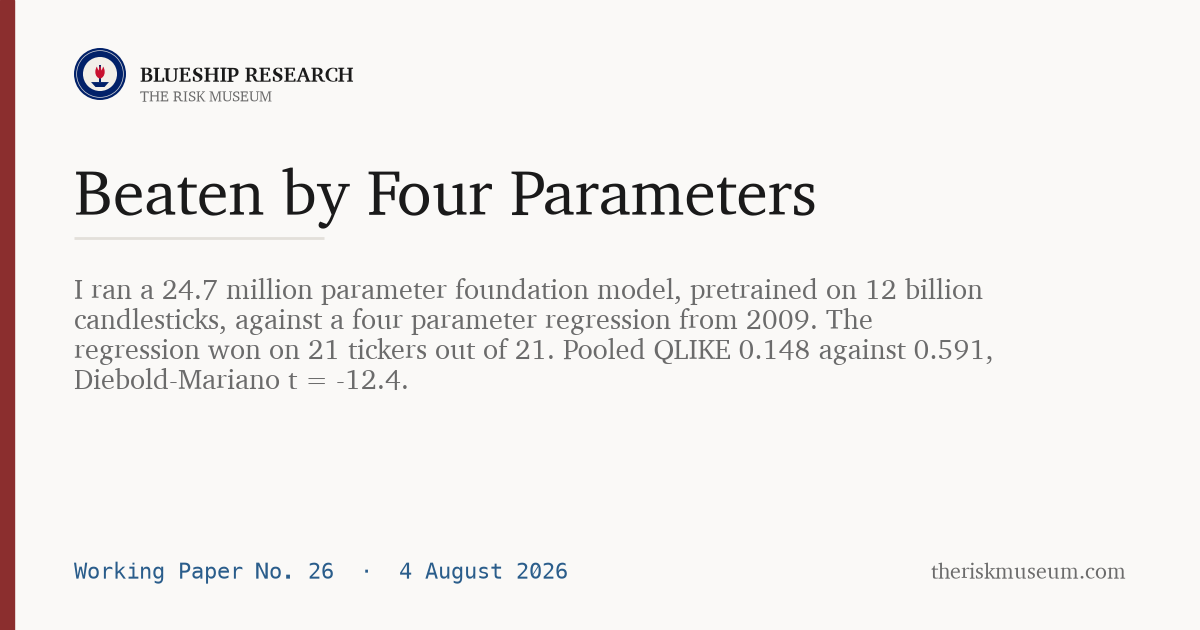
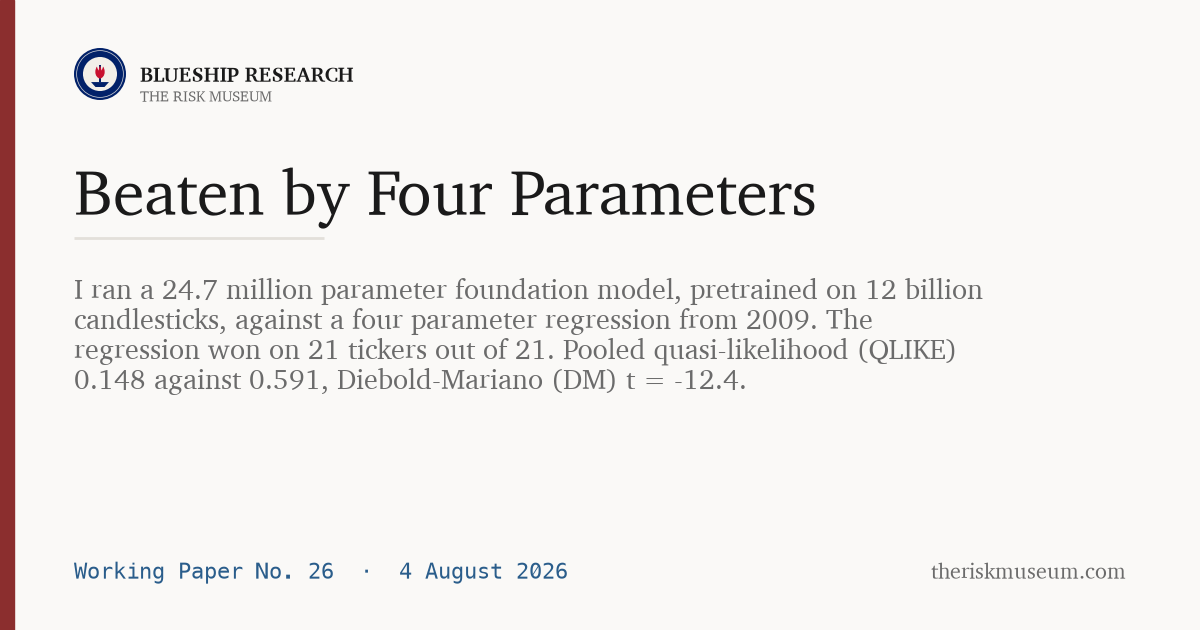
graveyard update 2026-08-04

Changed region(s): [[0.0617, 0.573, 0.5242, 0.6333], [0.5242, 0.5429, 0.8325, 0.6333]]

diff --git a/notes/reactor-queue.html b/notes/reactor-queue.html
@@ -118,10 +118,10 @@ footer { margin-top:2.4rem; padding-top:1rem; border-top:1px solid var(--line);
 <p>A note on credit. The framing of this paper, including the test that counts deals against construction sites and the arithmetic of half of one percent, comes from the video essay that seeded it. The verification, the extensions, and the prediction ledger are mine.</p>
 <hr />
 <h2>1. Abstract</h2>
-<p>I audited every announced nuclear agreement between Microsoft, Google, Amazon, and Meta against primary sources. The ledger sums to roughly 14.7 GW at face value, and its composition matters more than its total. Every buyer purchased a position in a queue, on gas as much as on nuclear. Upstream sits HALEU enrichment, where licensed US capacity is 900 kg per year against a DOE statement of need above 40 tonnes by 2030.</p>
+<p>I audited every announced nuclear agreement between Microsoft, Google, Amazon, and Meta against primary sources. The ledger sums to roughly 14.7 gigawatts (GW) at face value, and its composition matters more than its total. Every buyer purchased a position in a queue, on gas as much as on nuclear. Upstream sits high-assay low-enriched uranium (HALEU) enrichment, where licensed US capacity is 900 kg per year against a US Department of Energy (DOE) statement of need above 40 tonnes by 2030.</p>
 <hr />
 <h2>2. The deal ledger</h2>
-<p>A deal here spans everything from a PPA running 20 years on an operating plant to a memorandum to explore. I count 13 rows; other lumpings give 11 to 14.</p>
+<p>A deal here spans everything from a power purchase agreement (PPA) running 20 years on an operating plant to a memorandum to explore. I count 13 rows; other lumpings give 11 to 14.</p>
 <div class="tblwrap"><table>
 <thead>
 <tr>
@@ -318,7 +318,7 @@ footer { margin-top:2.4rem; padding-top:1rem; border-top:1px solid var(--line);
 <h3>3.1 The turbine shelf</h3>
 <p>The rejoinder to slow nuclear is fast gas. GE Vernova's backlog reached 116 GW at Q2 2026, of which 53 GW is firm equipment backlog and 63 GW is slot reservations, and it is already selling 2031 delivery slots. Wood Mackenzie counts ~110 GW of 2025 orders against 60 to 70 GW per year of world manufacturing capacity, with prices up 195 percent since 2019. A campus decided today gets a 2031 slot and first power around 2031 to 2033.</p>
 <h3>3.2 The restart shelf</h3>
-<p>As of July 28, 2026, zero US nuclear restarts have delivered a single MWh. The shelf is three plants, Palisades (~800 to 805 MW), Crane (835 MW), and Duane Arnold (601 to 615 MW), about 2 percent of the ~97 GW US fleet, and it does not restock. Palisades returned to operations status on August 25, 2025, has missed four named dates since, and still has no announced restart date (ANS, Jul 8, 2026). The working number is 3 to 4+ years from decision to grid for plants that were never gutted.</p>
+<p>As of July 28, 2026, zero US nuclear restarts have delivered a single megawatt hour (MWh). The shelf is three plants, Palisades (~800 to 805 megawatts, MW), Crane (835 MW), and Duane Arnold (601 to 615 MW), about 2 percent of the ~97 GW US fleet, and it does not restock. Palisades returned to operations status on August 25, 2025, has missed four named dates since, and still has no announced restart date (ANS, Jul 8, 2026). The working number is 3 to 4+ years from decision to grid for plants that were never gutted.</p>
 <h3>3.3 The shelf for new build</h3>
 <p>Vogtle 3&amp;4 was certified in 2009 at ~$14B and finished at over $31B. The cost ladder, all in unless noted.</p>
 <div class="tblwrap"><table>
@@ -372,7 +372,7 @@ footer { margin-top:2.4rem; padding-top:1rem; border-top:1px solid var(--line);
 </tr>
 </tbody>
 </table></div>
-<p>DOE announced $17.5B in conditional loan commitments on June 23, 2026 for ten new AP1000s. No firm AP1000 order for a specific site existed as of late July 2026 that I could verify. My realistic estimate for SMR MW on any grid by the end of 2030 is roughly 300 to 425 MWe, essentially none of it contracted by a hyperscaler.</p>
+<p>DOE announced $17.5B in conditional loan commitments on June 23, 2026 for ten new AP1000s. No firm AP1000 order for a specific site existed as of late July 2026 that I could verify. My realistic estimate for small modular reactor (SMR) MW on any grid by the end of 2030 is roughly 300 to 425 MWe, essentially none of it contracted by a hyperscaler.</p>
 <h3>3.4 What the shelves say together</h3>
 <p>Nobody in the Section 2 ledger bought speed, because speed was not for sale. They bought positions in queues. Project Kilby, Chevron's 2.67 GW plant built on 7HA turbine slots reserved before the panic and sold to Microsoft on a PPA running 20 years, shows the queue position is now the tradable asset.</p>
 <hr />
@@ -489,7 +489,7 @@ footer { margin-top:2.4rem; padding-top:1rem; border-top:1px solid var(--line);
 <li><strong>P6.</strong> GE Vernova reports gas equipment backlog plus slot reservations of at least 125 GW for the end of 2026. 70 to 90%.</li>
 <li><strong>P7.</strong> GE Vernova is publicly taking orders for 2032 turbine delivery by its Q2 2027 report. 60 to 85%.</li>
 <li><strong>P8.</strong> New capacity actually delivering under the nuclear contracts of the big four, excluding reallocated existing output, totals less than 3,000 MW by December 31, 2030. 75 to 95%.</li>
-<li><strong>P9.</strong> US commercial HALEU production licensed by the NRC reaches at least 5 tonnes in calendar 2029. 25 to 50%.</li>
+<li><strong>P9.</strong> US commercial HALEU production licensed by the US Nuclear Regulatory Commission (NRC) reaches at least 5 tonnes in calendar 2029. 25 to 50%.</li>
 <li><strong>P10.</strong> TRISO-X's TX-1 plant begins commercial fuel fabrication by June 30, 2028. 35 to 60%.</li>
 <li><strong>P11.</strong> A binding final investment decision to complete V.C. Summer 2&amp;3 is announced by December 31, 2028. 25 to 50%.</li>
 <li><strong>P12.</strong> A new reactor built under a hyperscaler contract delivers grid power by December 31, 2028. 2 to 10%. This is the thesis falsifier. If it resolves yes, speed was real and this paper was wrong.</li>

diff --git a/notes/beaten-by-four-parameters.html b/notes/beaten-by-four-parameters.html
@@ -132,10 +132,10 @@ footer { margin-top:2.4rem; padding-top:1rem; border-top:1px solid var(--line);
 <text x="60" y="158" class="bc">Pooled QLIKE loss on variance over five days. Lower is better. HAR won on 21 tickers of 21.</text>
 </svg></figure>
 
-<p class="plain"><b>In one line:</b> I ran a 24.7 million parameter foundation model, pretrained on 12 billion candlesticks, against a four parameter regression from 2009. The regression won on 21 tickers out of 21. Pooled QLIKE 0.148 against 0.591, Diebold-Mariano t = -12.4.</p>
+<p class="plain"><b>In one line:</b> I ran a 24.7 million parameter foundation model, pretrained on 12 billion candlesticks, against a four parameter regression from 2009. The regression won on 21 tickers out of 21. Pooled quasi-likelihood (QLIKE) 0.148 against 0.591, Diebold-Mariano (DM) t = -12.4.</p>
 <h2>1. The test</h2>
 <p>Kronos is a transformer for financial time series, decoder only, published at AAAI 2026, with 32.3 thousand GitHub stars. Its one credible published edge is realized volatility, where the paper reports an R-squared of 0.249.</p>
-<p>I pre-registered a falsification on 21 July 2026, before running anything. Kronos-small run zero shot against a log-HAR regression on Parkinson range volatility, the Corsi 2009 specification. Twenty US large caps plus SPY. Realized volatility five days ahead. The decision rule was locked in the same document: Kronos wins only if pooled QLIKE improves with pooled DM p below 0.05 and a positive median improvement per ticker. Any other outcome rejects it. 4,809 forecasts.</p>
+<p>I pre-registered a falsification on 21 July 2026, before running anything. Kronos-small run zero shot against a log heterogeneous autoregressive (log-HAR) regression on Parkinson range volatility, the Corsi 2009 specification. Twenty US large caps plus SPY. Realized volatility five days ahead. The decision rule was locked in the same document: Kronos wins only if pooled QLIKE improves with pooled DM p below 0.05 and a positive median improvement per ticker. Any other outcome rejects it. 4,809 forecasts.</p>
 <p>Forecast origins run 1 August 2025 to 30 June 2026, strictly after the model's arXiv release on 2 August 2025. Its training window is undisclosed. Any earlier origin is potentially in-sample for Kronos and out-of-sample for HAR, which is not a test, it is a handicap in the wrong direction.</p>
 <h2>2. The method note that decides the answer</h2>
 <p>The repository's <code>predict()</code> averages its Monte Carlo paths before returning them. Realized volatility computed on an averaged path is biased low, because averaging cancels the variation being measured.</p>
@@ -180,7 +180,7 @@ footer { margin-top:2.4rem; padding-top:1rem; border-top:1px solid var(--line);
 <p>Zero shot, daily bars, repository default sampling. I did not test intraday bars, which is where the model's pretraining is densest and where its paper does some of its evaluation, so this verdict covers realized volatility from daily bars and nothing wider.</p>
 <p>A variant with fine-tuning is a separate study with its own pre-registration and I am not running it. The 2025 and 2026 literature already reports that fine-tuning does not rescue foundation models for time series on equities, and re-running this one with tuned temperature, top-p or context length would be metric shopping against a decision rule I already locked.</p>
 <hr>
-<p><b>Method.</b> Full pre-registration at <code>docs/kronos_vol_prereg.md</code>, filed 2026-07-21 before the first run. Target is realized volatility over five days from Parkinson daily variance, annualized. HAR is a log-HAR fitted on an expanding window, with daily, weekly and monthly averages, refit monthly from a 2015 start, with a smearing correction for the log transform. QLIKE is computed on variance, not on volatility. Diebold-Mariano uses HAC lag 5. Kronos-small runs on the repository code after its April 2026 leakage fix, context 400 daily bars, horizon 5, temperature 1.0, top-p 0.9, 15 paths per origin. Every statistic is computed by deterministic Python. The universe is survivorship biased, which is symmetric across both models but still makes raw levels upper bounds.</p>
+<p><b>Method.</b> Full pre-registration at <code>docs/kronos_vol_prereg.md</code>, filed 2026-07-21 before the first run. Target is realized volatility over five days from Parkinson daily variance, annualized. HAR is a log-HAR fitted on an expanding window, with daily, weekly and monthly averages, refit monthly from a 2015 start, with a smearing correction for the log transform. QLIKE is computed on variance, not on volatility. Diebold-Mariano uses heteroskedasticity and autocorrelation consistent (HAC) lag 5. Kronos-small runs on the repository code after its April 2026 leakage fix, context 400 daily bars, horizon 5, temperature 1.0, top-p 0.9, 15 paths per origin. Every statistic is computed by deterministic Python. The universe is survivorship biased, which is symmetric across both models but still makes raw levels upper bounds.</p>
 <p><em>Educational research only. Not investment advice.</em></p>
 <p><em>Educational research only. Not investment advice.</em></p>
 <footer>BlueShip Research &middot; The Risk Museum &middot; educational

diff --git a/notes/chain-program-v3.html b/notes/chain-program-v3.html
@@ -124,8 +124,9 @@ the next day beyond implied volatility (<i>t</i>&nbsp;=&nbsp;7.4 in the standing
 classifier, which clears a stressed re-audit at 3.68). As a forecasting
 architecture, however, the state chain adds no value over a competent ensemble
 of persistence, leverage, and implied volatility. Version&nbsp;1 beat
-implied volatility (<i>t</i>&nbsp;=&nbsp;4.34) but lost to HAR and failed a
-newly tightened gate for margin of safety (stressed <i>t</i>&nbsp;=&nbsp;2.17); a
+implied volatility (<i>t</i>&nbsp;=&nbsp;4.34) but lost to a heterogeneous
+autoregressive (HAR) model and failed a newly tightened gate for margin of
+safety (stressed <i>t</i>&nbsp;=&nbsp;2.17); a
 neural variant was buried (<i>t</i>&nbsp;=&nbsp;&minus;4.37); a pre-registered
 residual corrector did not improve a log HAR+VIX+GJR backbone
 (<i>t</i>&nbsp;=&nbsp;&minus;1.07). The central result is the retirement of the
@@ -172,7 +173,8 @@ at 3.68). Version&nbsp;1&rsquo;s error was architectural. It entered its nine
 states as OLS dummies alongside the baselines, level shifts that cannot repair
 where a baseline errs. It also fought the wrong opponent. In volatility space
 the incumbent factor structure is persistence (HAR), leverage asymmetry
-(GJR-GARCH), and the market&rsquo;s own forecast (implied volatility). Beating a
+(GJR-GARCH, the Glosten, Jagannathan and Runkle variant of GARCH), and the
+market&rsquo;s own forecast (implied volatility). Beating a
 naive benchmark while losing to HAR indicates that the new information was
 mostly old information under a new state label, the verdict already applied to
 equity anomalies that die under a Fama-French plus momentum decomposition. A
@@ -189,13 +191,14 @@ comparisons from a reviewer&rsquo;s eyeball into arithmetic that runs on every
 cycle.</p>
 <h3>3.2 The rerun for margin of safety</h3>
 <p>Before promotion, every survivor is re-tested with its edge halved against
-the original HAC noise and its costs doubled. The mechanics matter. Naively
+the original heteroskedasticity and autocorrelation consistent (HAC) noise and
+its costs doubled. The mechanics matter. Naively
 halving the whole return series leaves the <i>t</i>-statistic unchanged, since
 <i>t</i> does not change with scale; the stressed test must halve the mean against the
 unstressed standard error, or it tests nothing. A synthetic sanity check caught
 this before shipping, and the lesson was filed.</p>
 <p>Gates that apply only to future ideas are decorative, so the vault was
-re-audited. The GEX classifier survived (3.68). The screen for tulip mania survived at <i>z</i>&nbsp;=&nbsp;5.3 on counts taken by name and month. I have since corrected that unit, because one mania is counted many times. On the honest count, one per episode, the screen clears its own 1.25 bar at 1.28, having measured 1.18 on a different data pull, so it sits on top of its threshold rather than above it. The Dimopoulos Chain v1, the founder&rsquo;s
+re-audited. The gamma exposure (GEX) classifier survived (3.68). The screen for tulip mania survived at <i>z</i>&nbsp;=&nbsp;5.3 on counts taken by name and month. I have since corrected that unit, because one mania is counted many times. On the honest count, one per episode, the screen clears its own 1.25 bar at 1.28, having measured 1.18 on a different data pull, so it sits on top of its threshold rather than above it. The Dimopoulos Chain v1, the founder&rsquo;s
 namesake model, came up at 2.17 and was retired. No exception was requested.</p>
 
 <h2>4. Version 3: a pre-registered residual corrector</h2>
@@ -204,8 +207,8 @@ a HAR plus implied plus GJR model in log space, refit monthly by expanding OLS, 
 the backbone, and left the states the only remaining job: correcting the
 backbone&rsquo;s residuals. Corrections were shrunk toward zero
 (<i>k</i>&nbsp;=&nbsp;60, James-Stein flavor) across three conditionings, the
-nine GEX&times;RV cells, the sign of the VIX term structure, and a flag for state
-arrival.
+nine GEX&times;RV cells, the sign of the Cboe Volatility Index (VIX) term
+structure, and a flag for state arrival.
 The target moved from the range of the next day to the range over 5 days, since version&nbsp;1.5 had shown
 that daily noise drowns the signal, with leakage guards for the overlapping
 targets: training truncated at the refit boundary minus the horizon, HAC lags
@@ -215,7 +218,7 @@ family deflator this is more than hygiene. Every sibling variant raises the
 family&rsquo;s own bar, so the gate makes a single pre-registered shot the
 mathematically optimal research strategy. The incentive design does the
 disciplining.</p>
-<p>The corrections did not improve the backbone (MAE 34.1 vs 33.7 bps;
+<p>The corrections did not improve the backbone (mean absolute error (MAE) 34.1 vs 33.7 bps;
 <i>t</i>&nbsp;=&nbsp;&minus;1.07 on the kill test). The decomposition state by
 state shows the information is not uniformly zero: one state with high gamma gained 3.5 bps while
 a stressed state lost 4.5. A result found by inspecting the decomposition after

diff --git a/notes/factor-zoo-honest-bar.html b/notes/factor-zoo-honest-bar.html
@@ -1,7 +1,7 @@
 <!doctype html><html lang="en"><head>
 <meta charset="utf-8"><meta name="viewport" content="width=device-width, initial-scale=1">
 <title>The Factor Zoo Meets an Honest Bar &middot; BlueShip Research Working Paper No. 13</title>
-<meta name="description" content="All 158 of Qlib's Alpha158 technical alphas, run as one family on ~21 years of US large caps. 29 clear a naive t>=2.5; zero survive a multiplicity-deflated (t>=4.11), cost-stressed bar. The zoo is short-term reversal and a volatility risk premium in disguise.">
+<meta name="description" content="All 158 of Qlib's Alpha158 technical alphas, run as one family on ~21 years of US large caps. 29 clear a naive t>=2.5 and zero are promoted. One, IMAX20, clears the deflated bar at t=4.46 and is stopped by out-of-sample decay, not by multiplicity. The zoo is short-term reversal and a volatility risk premium in disguise.">
 <link rel="canonical" href="https://theriskmuseum.com/notes/factor-zoo-honest-bar.html">
 <link rel="icon" href="/favicon.svg" type="image/svg+xml">
 <style>
@@ -98,7 +98,7 @@ footer { margin-top:2.4rem; padding-top:1rem; border-top:1px solid var(--line);
 <meta property="og:type" content="article">
 <meta property="og:site_name" content="The Risk Museum">
 <meta property="og:title" content="The Factor Zoo Meets an Honest Bar &middot; BlueShip Research Working Paper No. 13">
-<meta property="og:description" content="All 158 of Qlib's Alpha158 technical alphas, run as one family on ~21 years of US large caps. 29 clear a naive t>=2.5; zero survive a multiplicity-deflated (t>=4.11), cost-stressed bar. The zoo is short-term reversal and a volatility risk premium in disguise.">
+<meta property="og:description" content="All 158 of Qlib's Alpha158 technical alphas, run as one family on ~21 years of US large caps. 29 clear a naive t>=2.5 and zero are promoted. One, IMAX20, clears the deflated bar at t=4.46 and is stopped by out-of-sample decay, not by multiplicity. The zoo is short-term reversal and a volatility risk premium in disguise.">
 <meta property="og:url" content="https://theriskmuseum.com/notes/factor-zoo-honest-bar.html">
 <meta property="og:image" content="https://theriskmuseum.com/cards/note-factor-zoo-honest-bar.png">
 <meta property="og:image:width" content="1200">
@@ -106,7 +106,7 @@ footer { margin-top:2.4rem; padding-top:1rem; border-top:1px solid var(--line);
 <meta name="twitter:image" content="https://theriskmuseum.com/cards/note-factor-zoo-honest-bar.png">
 <meta name="twitter:card" content="summary_large_image">
 <meta name="twitter:title" content="The Factor Zoo Meets an Honest Bar &middot; BlueShip Research Working Paper No. 13">
-<meta name="twitter:description" content="All 158 of Qlib's Alpha158 technical alphas, run as one family on ~21 years of US large caps. 29 clear a naive t>=2.5; zero survive a multiplicity-deflated (t>=4.11), cost-stressed bar. The zoo is short-term reversal and a volatility risk premium in disguise.">
+<meta name="twitter:description" content="All 158 of Qlib's Alpha158 technical alphas, run as one family on ~21 years of US large caps. 29 clear a naive t>=2.5 and zero are promoted. One, IMAX20, clears the deflated bar at t=4.46 and is stopped by out-of-sample decay, not by multiplicity. The zoo is short-term reversal and a volatility risk premium in disguise.">
 <!-- social:end -->
 </head><body><main>
 <a class="tearmark" href="https://www.linkedin.com/in/vasiliosdimopoulos/" target="_blank" rel="noopener"><b>Get in touch</b><i>Reach out on LinkedIn</i></a>
@@ -187,7 +187,7 @@ the family of 316 hypotheses, is promoted.</p>
 <p>The signals that come closest are, without exception, measures of reversal
 over short horizons and of overbought levels. The strongest counts days since
 the high over 20 days (IMAX20),
-with a Newey&ndash;West <i>t</i> of 4.46 that falls to a stressed <i>t</i> of
+with a Newey&ndash;West (NW) <i>t</i> of 4.46 that falls to a stressed <i>t</i> of
 3.68 once gross is halved and costs are doubled; the same pattern holds for the
 signals of reversal over short horizons and of range near the top of the list
 (RSV20, RANK20, MIN5). These are real gross effects, but they trade quickly, and doubling the
@@ -266,8 +266,9 @@ Qlib&rsquo;s data layer and backtester were not used.</dd>
 
 <dt>Data veins</dt>
 <dd>Adjusted OHLCV and dollar volume (Yahoo), roughly 425 current S&amp;P
-constituents, 2005 to July 2026, one trading day of information lag. Ken French
-FF5 plus momentum stood behind the stage for residual alpha, which no member
+constituents, 2005 to July 2026, one trading day of information lag. Ken
+French&rsquo;s Fama-French five-factor model (FF5) plus momentum stood behind
+the stage for residual alpha, which no member
 reached. Both veins are free; neither is snapshotted.</dd>
 
 <dt>Gate regime</dt>

diff --git a/notes/hedge-instrument.html b/notes/hedge-instrument.html
@@ -119,7 +119,7 @@ footer { margin-top:2.4rem; padding-top:1rem; border-top:1px solid var(--line);
 <p>The consensus reading, put well by Tae Kim on 30 July, is that the positions were right and the leverage was wrong: at four times gross, a drawdown became a liquidation. I agree, and the proximate cause was margin.</p>
 <p>One layer underneath, leverage is judged against net exposure, and net exposure is a model. My first draft argued the hedge was sized wrong. The arithmetic showed the opposite.</p>
 <h2>2. What the filing shows</h2>
-<p>The Q1 2026 13F, filed 18 May 2026, shows forty-two positions totalling $13.68bn.</p>
+<p>The Q1 2026 13F (the SEC form on which large managers disclose US equity holdings each quarter), filed 18 May 2026, shows forty-two positions totalling $13.68bn.</p>
 <p>The long book is $3.86bn of AI infrastructure in small and mid caps. The eight largest names, about 91% of it, are Bloom Energy, Sandisk, CoreWeave, IREN, Core Scientific, Applied Digital, Riot and CleanSpark.</p>
 <p>The disclosed short side is $8.46bn of notional in <strong>puts on mega cap semiconductors and Oracle</strong>: the VanEck semiconductor ETF, Nvidia, Oracle, Broadcom, AMD, Micron, TSMC, ASML and Intel. There is also $1.36bn of calls, so the disclosed structure is more layered than one basket against another.</p>
 <p>Both sides are the AI capital cycle, one with high beta and one with low beta.</p>
@@ -164,7 +164,7 @@ footer { margin-top:2.4rem; padding-top:1rem; border-top:1px solid var(--line);
 <p><strong>The filing was already stale.</strong> A 5.6% position in Nebius carries a May event date and a position near 20% in a micro cap carries a June one. Neither is in the March filing.</p>
 <p><strong>I have not verified the fund's size, leverage or returns.</strong> Those come from press reporting. Section 5 depends on the reported four times gross.</p>
 <hr />
-<p><strong>Sources.</strong> Situational Awareness Partners LP Form 13F-HR, filed 2026-05-18 for the period ended 2026-03-31, and Schedules 13G for Nebius Group and SharonAI Holdings, all via SEC EDGAR. Daily adjusted closes from public market data. Bank of England Financial Stability Report, July 2026. Tae Kim, "The Big Lesson from the Implosion of Leopold Aschenbrenner's $20 Billion Situational Awareness Hedge Fund," 30 July 2026.</p>
+<p><strong>Sources.</strong> Situational Awareness Partners LP Form 13F-HR, filed 2026-05-18 for the period ended 2026-03-31, and Schedules 13G for Nebius Group and SharonAI Holdings, all via the SEC's Electronic Data Gathering, Analysis and Retrieval system (EDGAR). Daily adjusted closes from public market data. Bank of England Financial Stability Report, July 2026. Tae Kim, "The Big Lesson from the Implosion of Leopold Aschenbrenner's $20 Billion Situational Awareness Hedge Fund," 30 July 2026.</p>
 <p><strong>Method.</strong> Baskets of daily returns, weighted equally and by filing value, of the disclosed long names and of the names underlying the disclosed puts. Correlations and betas by ordinary least squares on daily returns. Volatility is the standard deviation of daily returns annualised at 252 days. The hedging ceiling is the standard minimum variance result: a hedged book cannot fall below the unhedged volatility times the square root of one minus the squared correlation.</p>
 <p><em>Educational research only. Not investment advice. This note is about a portfolio structure. It makes no claim about any individual's conduct or ability.</em></p>
 <footer>BlueShip Research &middot; The Risk Museum &middot; educational

diff --git a/notes/who-has-to-trade.html b/notes/who-has-to-trade.html
@@ -203,10 +203,10 @@ footer { margin-top:2.4rem; padding-top:1rem; border-top:1px solid var(--line);
 <h2>6. What is wrong with this paper</h2>
 <p>The universe is survivorship biased. It is today's large caps, so raw statistics are upper bounds rather than estimates.</p>
 <p>Two survivors is a sample of two. Section 4 is a pattern read off two successes and 182 failures, which is the kind of thing this engine exists to be suspicious of. It is a selection rule for what to test next, not an established finding.</p>
-<p>The lanes were not chosen at random. I tested BRAIN and Alpha158 because they were available, and a different sample could give a different rate.</p>
+<p>The lanes were not chosen at random. I tested WorldQuant BRAIN and Microsoft Qlib's public library of 158 technical alphas (Alpha158) because they were available, and a different sample could give a different rate.</p>
 <p>The survivors have not been re-tested on data that did not exist when they passed. That test matters most and it is scheduled, not done.</p>
 <hr />
-<p><strong>Method.</strong> All counts read from the engine's hypothesis store on 3 August 2026 via the read-only query layer. Judged means a ticket reached a verdict of passed, rejected or decayed; errored and queued tickets are excluded from every rate. The gate stack in the swarm lane is a Newey-West t against a family bar deflated by Bonferroni, a ten thousand draw block bootstrap, an in-sample to out-of-sample degradation limit, and a rerun for margin of safety with the gross halved and the costs doubled. Studies in the research lane run a subset and say so in their own papers: the studies of 13F crowding and disclosure text were judged on a deflated Newey-West t with no bootstrap, no out-of-sample split and no cost model. Claiming the full stack applied to all 184 would be false. Every statistic is computed by deterministic code and none by a language model.</p>
+<p><strong>Method.</strong> All counts read from the engine's hypothesis store on 3 August 2026 via the read-only query layer. Judged means a ticket reached a verdict of passed, rejected or decayed; errored and queued tickets are excluded from every rate. The gate stack in the swarm lane is a Newey-West t against a family bar deflated by Bonferroni, a ten thousand draw block bootstrap, an in-sample to out-of-sample degradation limit, and a rerun for margin of safety with the gross halved and the costs doubled. Studies in the research lane run a subset and say so in their own papers: the studies of 13F crowding (the 13F is the SEC form on which large managers disclose US equity holdings each quarter) and disclosure text were judged on a deflated Newey-West t with no bootstrap, no out-of-sample split and no cost model. Claiming the full stack applied to all 184 would be false. Every statistic is computed by deterministic code and none by a language model.</p>
 <p><em>Educational research only. Not investment advice.</em></p>
 <footer>BlueShip Research &middot; The Risk Museum &middot; educational
 research only; not investment advice. Method and sources for this paper are

diff --git a/notes/risk-teardown.html b/notes/risk-teardown.html
@@ -122,7 +122,7 @@ and four short, gross 100%, net +30%) to separate a portfolio&rsquo;s dollar
 description from its risk description. Regressed on the Fama&ndash;French five
 factors plus momentum with Newey&ndash;West errors over 5,384 trading days
 (2005&ndash;2026), the book carries a realized market beta of 0.56 on +30% net
-dollars, roughly 1.9&times; the direction those dollars imply, and an Investment (CMA)
+dollars, roughly 1.9&times; the direction those dollars imply, and an Investment (conservative minus aggressive, CMA)
 beta of &minus;0.50. The six factors explain 61.3% of daily variance, leaving
 38.7% idiosyncratic, and residual alpha is +8.1% annualized
 (<i>t</i>&nbsp;=&nbsp;3.75) in sample. By risk rather than dollars the book is
@@ -148,7 +148,7 @@ figure, the residual alpha above all, is an upper bound rather than a forecast.<
 
 <h2>2. The portfolio</h2>
 <p>The book holds ten large caps in the US, six long and four short. Weights are
-fractions of NAV set by hand for the example; long dollars concentrate in
+fractions of net asset value (NAV) set by hand for the example; long dollars concentrate in
 growth among the mega caps, short dollars in defensives.</p>
 <div class="tblwrap">
 <div class="cap"><b>Table 1.</b> The portfolio: ten positions by side and weight.</div>
@@ -202,11 +202,11 @@ more directional to the market than its net book implies. <b>Unintended.</b></li
 <li><b>Investment (CMA) beta &minus;0.50.</b> A tilt toward aggressive growth with heavy
 reinvestment (long tech among the mega caps) funded by short conservative
 payers. A style bet, not stock selection. <b>Unintended.</b></li>
-<li><b>Value (HML) beta &minus;0.17.</b> Net short value, long growth. A style
+<li><b>Value (high minus low, HML) beta &minus;0.17.</b> Net short value, long growth. A style
 bet, not stock selection. <b>Unintended.</b></li>
-<li><b>Profitability (RMW) beta &minus;0.13.</b> Mildly short quality; the shorts
+<li><b>Profitability (robust minus weak, RMW) beta &minus;0.13.</b> Mildly short quality; the shorts
 are the profitable defensives. A style bet, not stock selection. <b>Unintended.</b></li>
-<li><b>Size (SMB) beta &minus;0.03.</b> Negligible; both sleeves are large caps,
+<li><b>Size (small minus big, SMB) beta &minus;0.03.</b> Negligible; both sleeves are large caps,
 so the book is correctly size neutral. <b>Intended (clean).</b></li>
 </ul>
 
@@ -319,7 +319,7 @@ Heteroskedasticity and Autocorrelation Consistent Covariance Matrix.
 only; not investment advice. The book is hypothetical and illustrative, not a
 real position and not a recommendation. Data: adjusted daily closes for the
 project&rsquo;s universe of large caps, biased by survivorship; Kenneth R. French Data
-Library (FF5 plus momentum). Every statistic is computed by deterministic Python
+Library (the Fama-French five-factor model, FF5, plus momentum). Every statistic is computed by deterministic Python
 (pipeline/export_riskdesk.py); none is derived by hand.</footer>
 </main><script defer src="../read-aloud.js"></script>
 </body></html>

diff --git a/notes/lazy-prices-survivorship.html b/notes/lazy-prices-survivorship.html
@@ -115,9 +115,10 @@ Anomaly Inverts in a Survivor-Only Sample</h1>
 <p class="abstract"><span class="lab">Abstract.</span> Cohen, Malloy and Nguyen
 (2020) show that firms which change the language of their periodic filings
 subsequently underperform. Disclosure inertia is good news. I test the
-effect on 14,155 EDGAR 10-Q and 10-K filings for 406 large caps currently in the
-index, measuring text change as one minus the cosine similarity of a filing to
-the same period a year earlier. The effect does not
+effect on 14,155 quarterly and annual reports (10-Q and 10-K filings) drawn from
+the SEC&rsquo;s Electronic Data Gathering, Analysis and Retrieval system (EDGAR)
+for 406 large caps currently in the index, measuring text change as one minus
+the cosine similarity of a filing to the same period a year earlier. The effect does not
 replicate. The measure is highly sensitive to specification: a naive version
 compared quarter over quarter is a precise zero (<i>t</i>&nbsp;=&nbsp;0.13), while
 a version controlled for season and cleaned of stopwords is significant but
@@ -147,8 +148,9 @@ signals should want to test.</p>
 <h2>2. Data and method</h2>
 <p>I harvest every 10-Q and 10-K primary document filed since 2015 by the 406
 names in my universe with EDGAR coverage (14,155 filings in all) and reduce
-each to a word vector of stripped text, discarding inline XBRL scaffolding and
-the frequent stopwords that every filing shares. Following
+each to a word vector of stripped text, discarding inline eXtensible Business
+Reporting Language (XBRL) scaffolding and the frequent stopwords that every
+filing shares. Following
 Cohen, Malloy and Nguyen, text change is measured <i>year over year, same
 period</i>: a 10-Q is compared to the same fiscal quarter a year earlier and a
 10-K to the prior year&rsquo;s 10-K, so that ordinary seasonal differences in

diff --git a/notes/short-side-crowding.html b/notes/short-side-crowding.html
@@ -117,8 +117,9 @@ Crowding as a Risk Measure, Not a Tradable Signal</h1>
 <p class="plain"><b>In one line:</b> I tested four ways to trade public short selling data. None worked. It measures risk, not profit.</p>
 
 <p class="abstract"><span class="lab">Abstract.</span> I test whether daily
-consolidated short volume, published without charge by FINRA under Regulation
-SHO, carries cross-sectional information for US large caps. On a panel
+consolidated short volume, published without charge by the Financial Industry
+Regulatory Authority (FINRA) under Regulation SHO, carries cross-sectional
+information for US large caps. On a panel
 of 2,006 trading days and 406 names (2018&ndash;2026), I define a short volume
 ratio (SVR) as short volume divided by total volume and, following the
 literature on informed short sellers (Boehmer, Huszar and Jordan, 2010), fix the
@@ -206,9 +207,10 @@ shorted least, nine worst months for an equally weighted market.</div>
 for a signal. The leg of crowded shorts rises in stress rather than falling. That is
 a property of the state, not an edge a desk can harvest, and it is contaminated
 by survivorship in a way set out in Section 5. The finding is therefore held,
-not promoted. It mirrors the museum&rsquo;s 13F crowding study, where an effect
-that was statistically real was retained as a risk measure rather than shipped
-as product. A risk desk learns from it where covering pressure concentrates; a
+not promoted. It mirrors the museum&rsquo;s crowding study built on the SEC form
+on which large managers disclose US equity holdings each quarter (13F), where an
+effect that was statistically real was retained as a risk measure rather than
+shipped as product. A risk desk learns from it where covering pressure concentrates; a
 trading desk learns nothing it can act on.</p>
 
 <h2>5. Limitations</h2>

diff --git a/notes/caravan-and-cluster.html b/notes/caravan-and-cluster.html
@@ -140,7 +140,7 @@ Read as a Guide to Underwriting the AI Buildout</h1>
 <p><b>The relay.</b> The AI value chain is a relay, and booking the full markup to one layer counts returns of seventy-five to one before the relay takes its cuts. F13 and F14 price the layer where I think the meter breaks.</p>
 <p><b>The paiza.</b> Export licenses, sovereign compute deals, and government equity stakes are the stamped tablet. That is my slate&rsquo;s thesis, intelligence abundant and permission scarce, priced in F1, F12 and F5.</p>
 <p><b>The fine print.</b> The ortoq flip is the question for every financed GPU fleet: who eats the loss if the venture fails? F2 prices the version on the balance sheet, tariffs financed as working capital. F7 tests whether the capex keeps compounding.</p>
-<p><b>The caravansaries.</b> Watering stops sat one camel-day apart, and spacing set throughput. The binding constraint now is electrical: interconnection queues and turbine lead times. F8 prices it at the PJM capacity auction.</p>
+<p><b>The caravansaries.</b> Watering stops sat one camel-day apart, and spacing set throughput. The binding constraint now is electrical: interconnection queues and turbine lead times. F8 prices it at the PJM Interconnection&rsquo;s capacity auction.</p>
 <p><b>The dragoman.</b> The hire Pegolotti paid the most was the interpreter: &ldquo;a good interpreter&rsquo;s wages will cost you less than what a bad one loses you.&rdquo; The equivalent now is the integration layer between models and domains.</p>
 <p><b>The mulberry trees.</b> The parties being disintermediated today are planting mulberries now. F5 prices whether the Chinese fab sector&rsquo;s trees mature.</p>
 

diff --git a/notes/dimopoulos-chain-v1.html b/notes/dimopoulos-chain-v1.html
@@ -121,9 +121,11 @@ terciles among options dealers with terciles of realized volatility, and test
 whether its distributions, conditioned on state, carry information about
 volatility one day ahead beyond established econometric benchmarks. Out of
 sample (2019&ndash;2026, 1,794 days, refit monthly with no look-ahead), the
-chain&rsquo;s states add significant information beyond the VIX
-(Newey&ndash;West <i>t</i>&nbsp;=&nbsp;4.34) and beyond GARCH(1,1)
-(<i>t</i>&nbsp;=&nbsp;3.19); their increment over the HAR benchmark reaches only
+chain&rsquo;s states add significant information beyond the Cboe Volatility
+Index (VIX) (Newey&ndash;West <i>t</i>&nbsp;=&nbsp;4.34) and beyond a
+generalised autoregressive conditional heteroskedasticity model, GARCH(1,1)
+(<i>t</i>&nbsp;=&nbsp;3.19); their increment over the heterogeneous
+autoregressive (HAR) benchmark reaches only
 <i>t</i>&nbsp;=&nbsp;2.03, short of the promotion gate, and vanishes once the
 asymmetric GJR-GARCH model of Glosten, Jagannathan and Runkle (1993) enters the
 baseline (<i>t</i>&nbsp;=&nbsp;1.02). I read the leverage effect GJR captures

diff --git a/notes/measuring-the-crowd.html b/notes/measuring-the-crowd.html
@@ -117,9 +117,10 @@ Underperformance in 13F-Inferred Hedge-Fund Crowding</h1>
 <p class="plain"><b>In one line:</b> Stocks crowded by hedge funds do fall harder in bad months, but not reliably enough to trade.</p>
 
 <p class="abstract"><span class="lab">Abstract.</span> I test whether
-stocks jointly held by 13F filers that behave like hedge funds exhibit excess co-movement
-and elevated underperformance in market stress, using 53 quarters of Form 13F
-data (2013&ndash;2026). Both effects are present and statistically significant:
+stocks jointly held by 13F filers (Form 13F is the SEC form on which large
+managers disclose US equity holdings each quarter) that behave like hedge funds
+exhibit excess co-movement and elevated underperformance in market stress, using
+53 quarters of Form 13F data (2013&ndash;2026). Both effects are present and statistically significant:
 residual pairwise correlation among co-held stocks is elevated relative to
 matched controls (Newey&ndash;West <i>t</i>&nbsp;=&nbsp;4.09), and the
 most crowded quintile underperforms the least crowded by 142 basis points per
